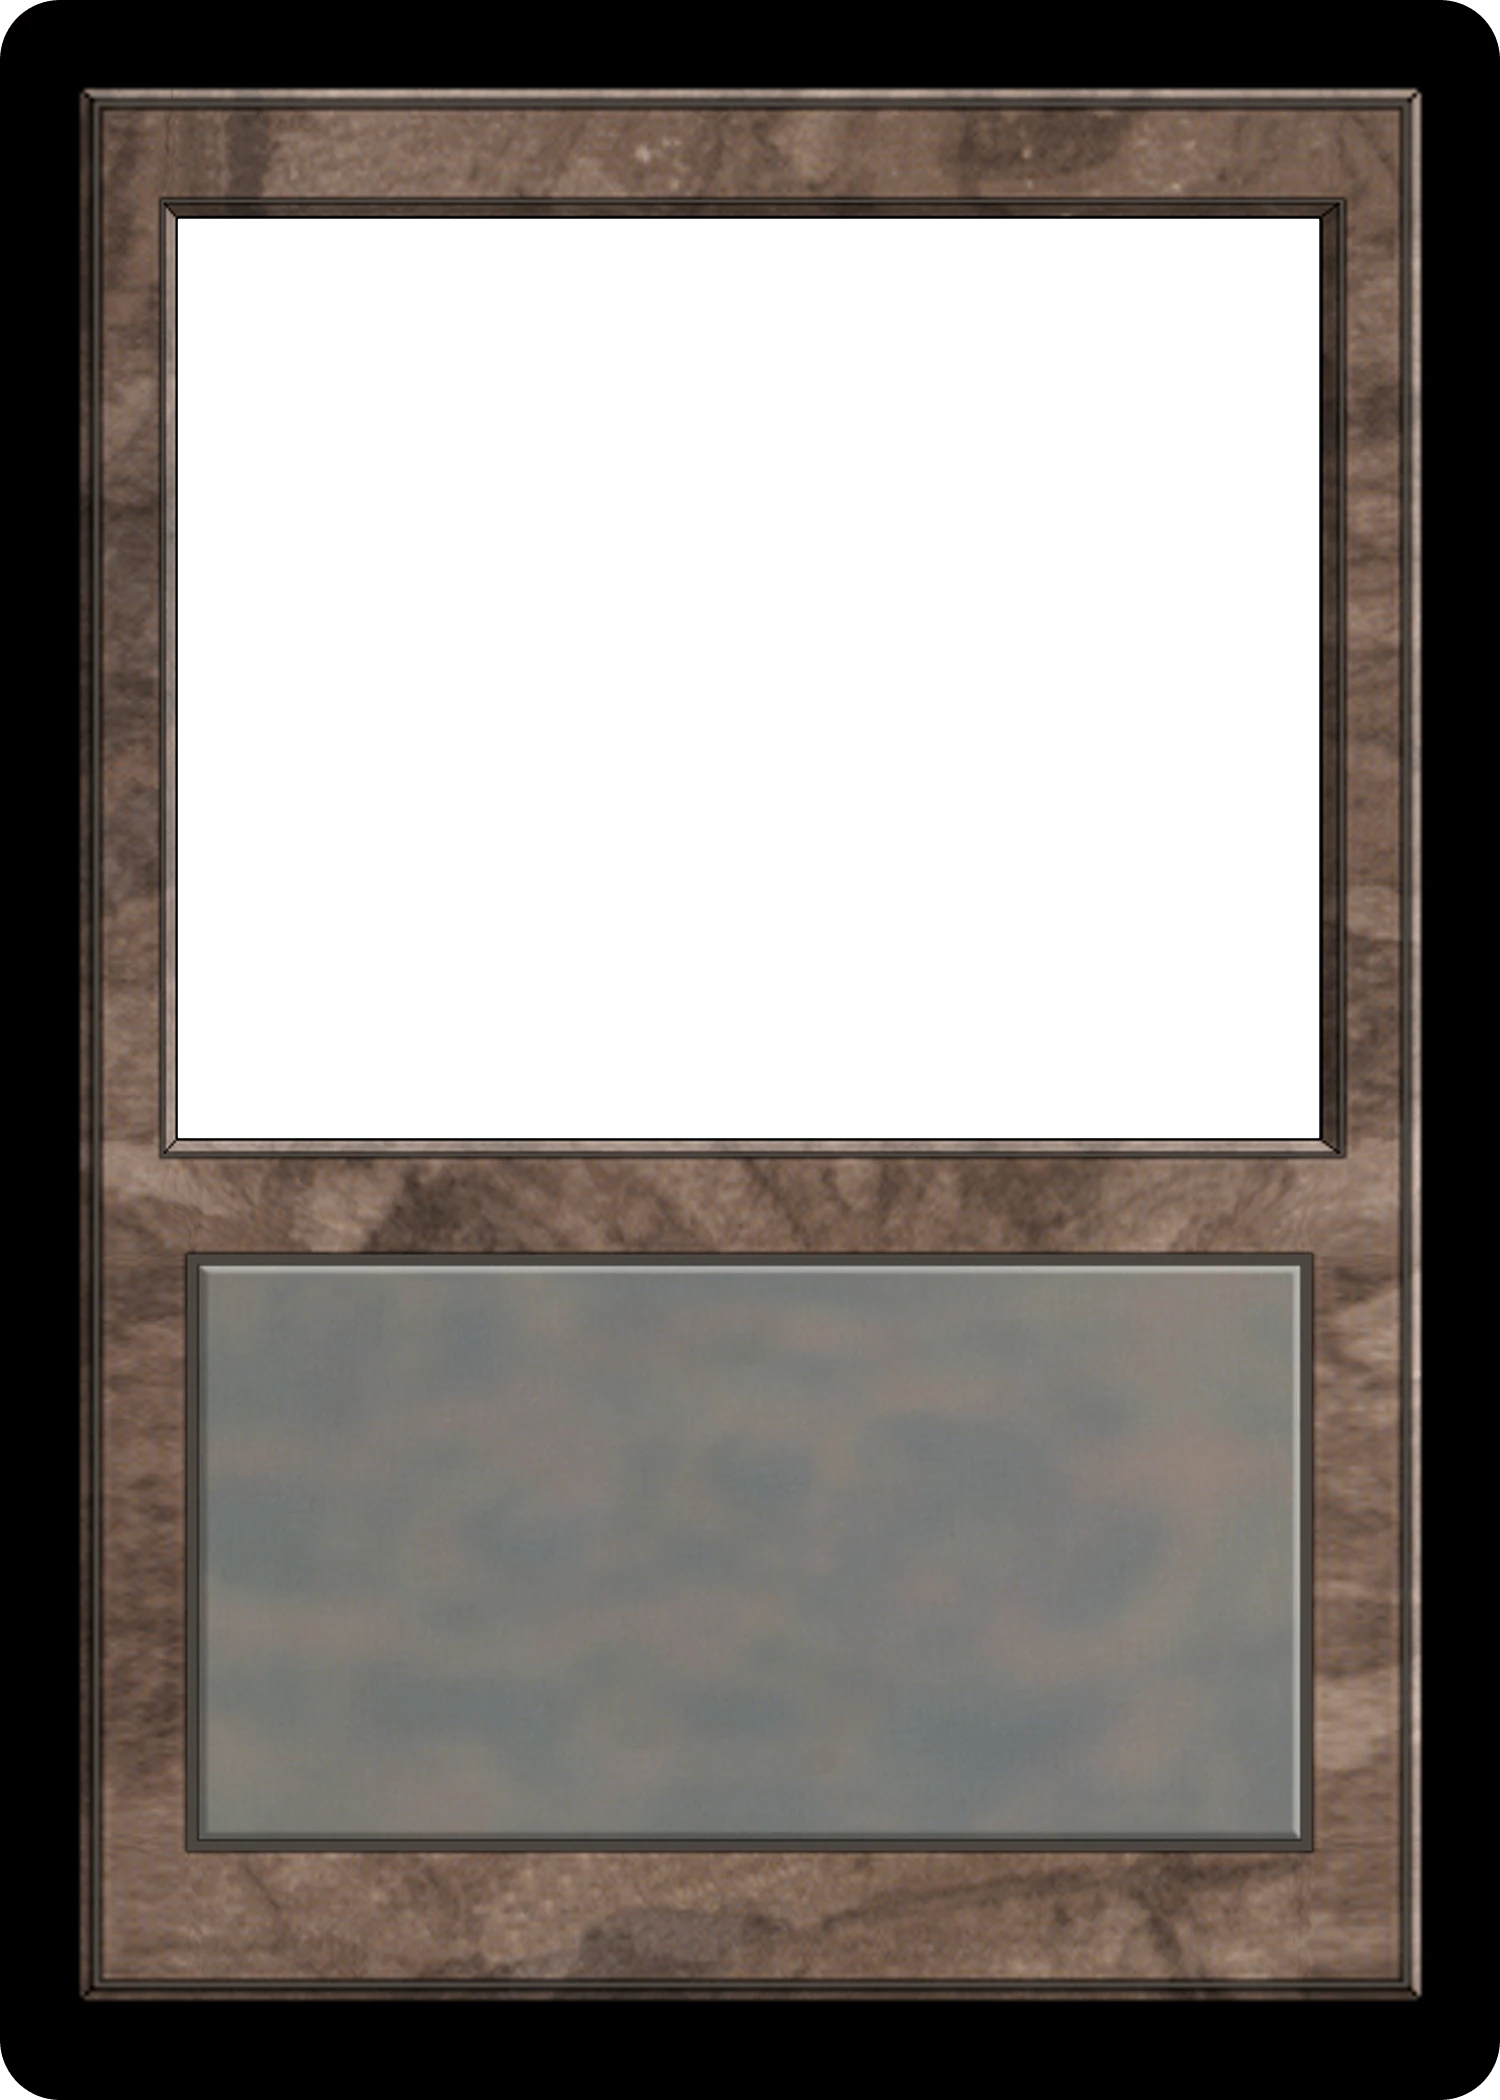
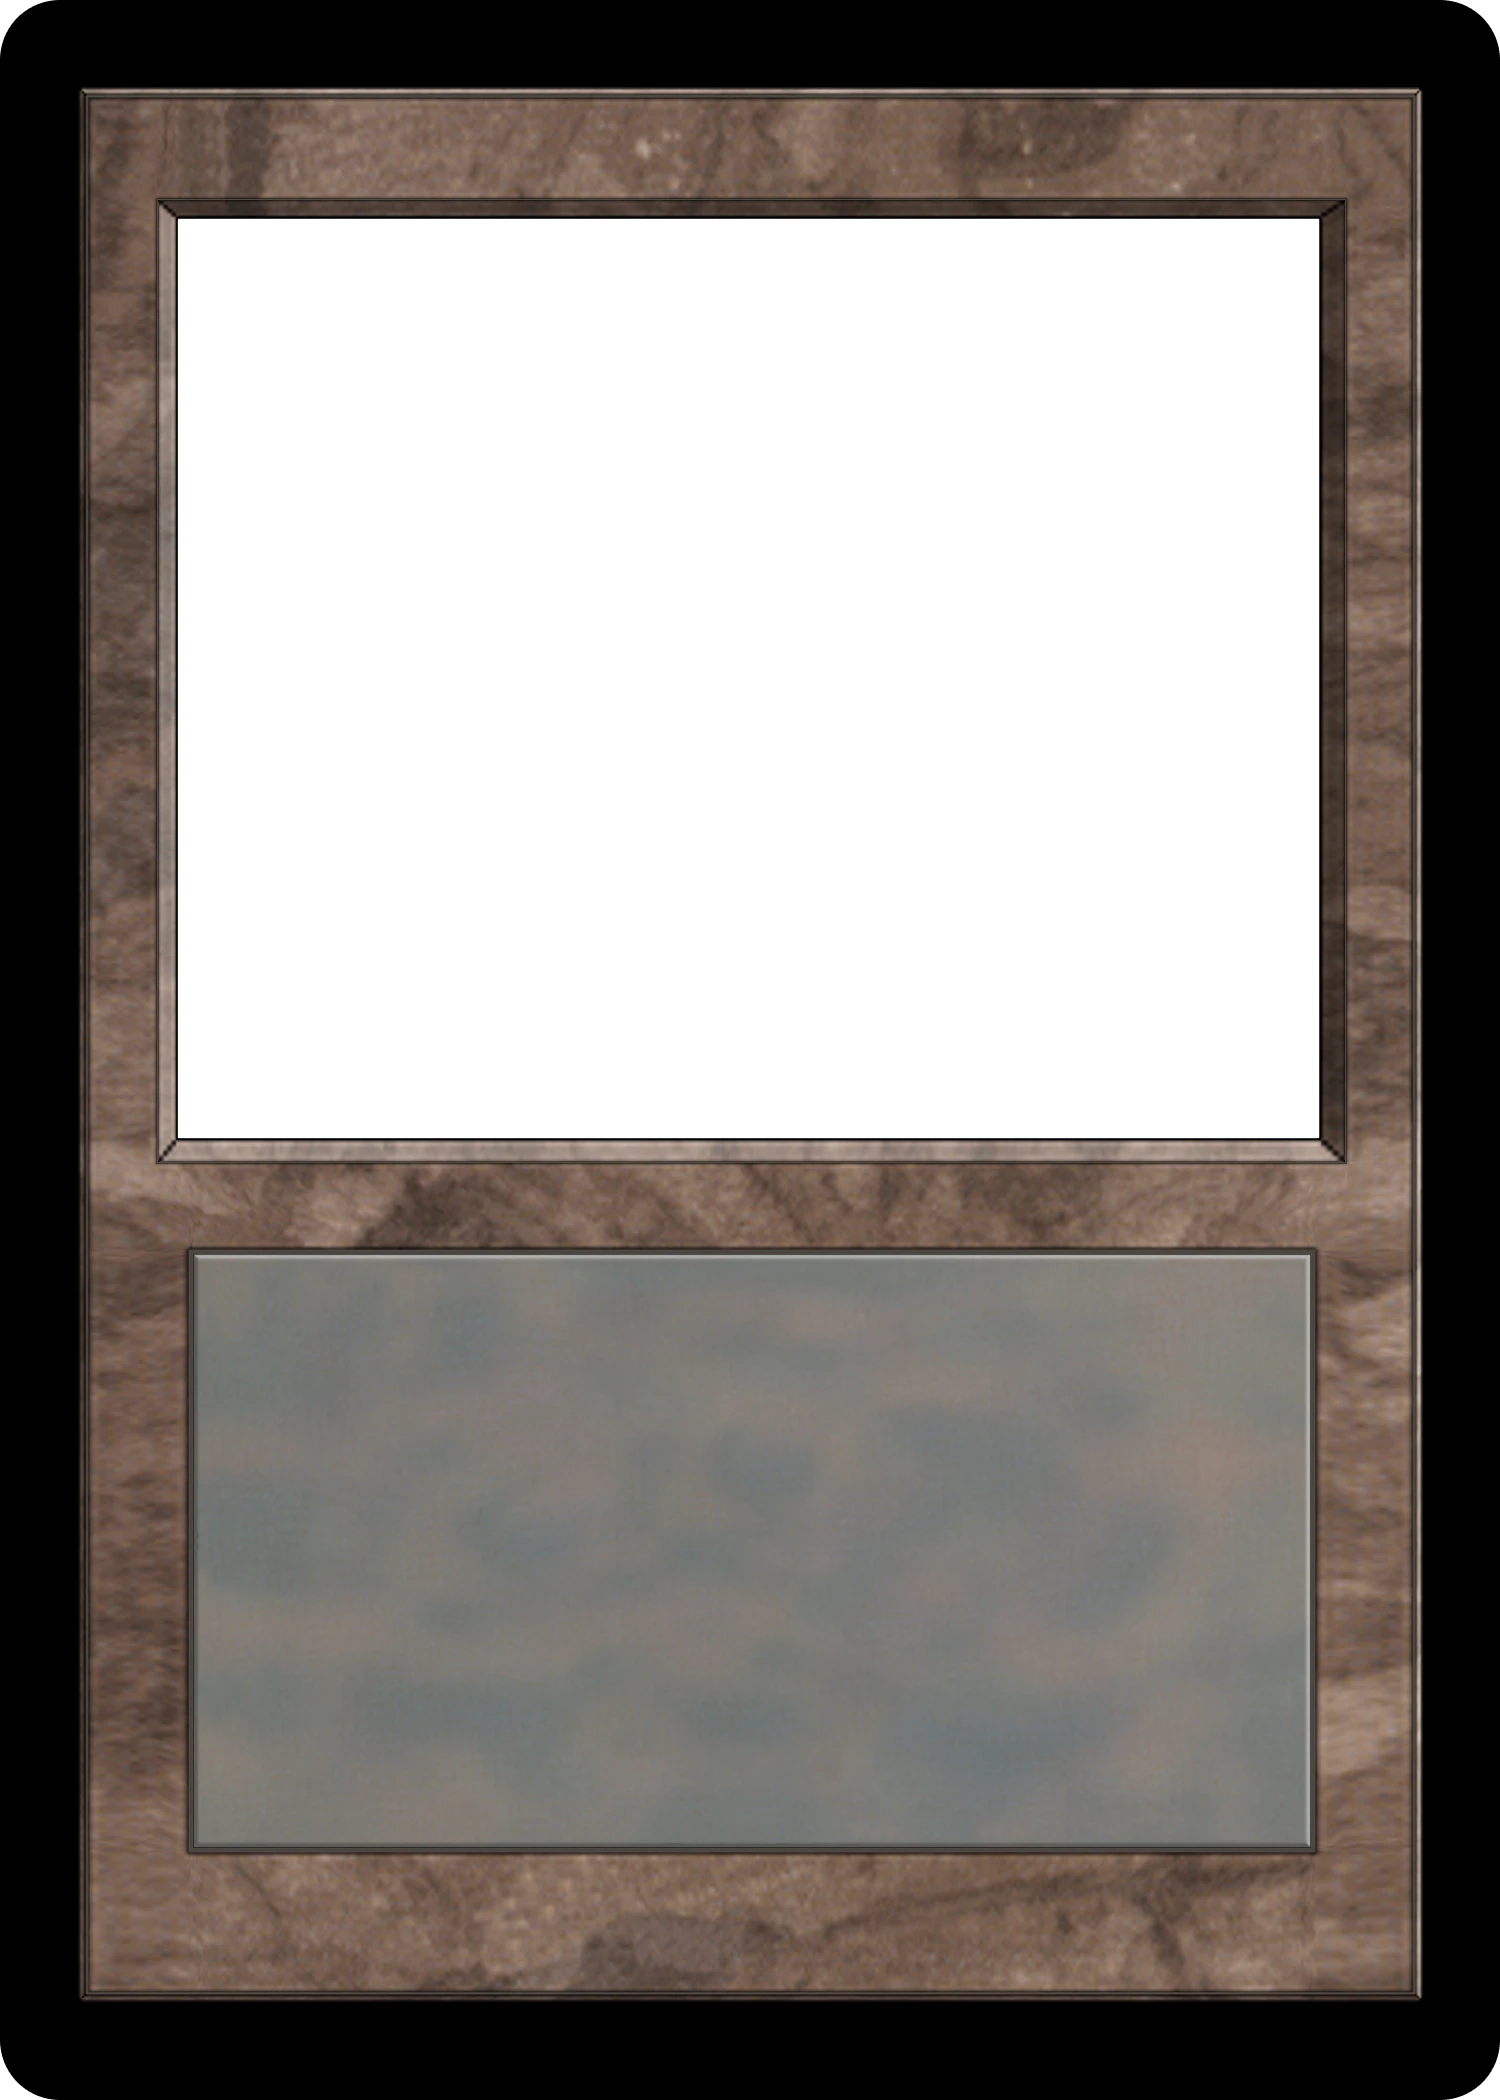
fix(frames): thin the Alpha frame lines to the print's (owner decision, round 2)
The re-cut Alpha masters scaled MSE's 1 px lines with the bands around
them, so every frame line came out about twice the printed card's. Each
line group now has its own warp knots, placed on the print's dark lines
(half-maximum crossings, medians over 19 LEA/LEB scans):

- outer pinstripe 21-23 px -> 9-12 (print 9-11), frame edges unchanged
- art box outline (MSE dark-light-dark) ~7 px -> 3 at 1 px per source
  px, within 1 px of the print's line; the art opening is unchanged
- text box outline + MSE's face ring + inner line 14-15 -> 8 px; the
  outline moves onto the print's (top 1252 -> 1247, right 1314 -> 1318)

Box knots squeeze plain marble where a box ends, so each map has an
outer twin with the first release's bevel scale for the title band, type
band, P/T strip and side borders, ramped onto the full map beside each
box (no new seams).

Only the 14 agclassic/alphaland masters (+ .webp twins) change; layout
rects are untouched (their padding comments are updated). v27, still
unshipped, already sweeps both templates: no new layout version. HD
bakes of all 37 templates x regular/foil/etched are byte-identical
except agclassic and alphaland. New master test pins every line's
width and place; restoring the old pinstripe, art box or text box knots
fails it.

Changed region(s): [[0.0307, 0.031, 0.9507, 0.9595]]

diff --git a/tests/unit/render/bake-followups.test.ts b/tests/unit/render/bake-followups.test.ts
@@ -154,21 +154,21 @@ describe("Alpha brand mark is centred in the re-cut black band", () => {
 });
 
 describe("Alpha P/T sits in the strip below the text box (v25, re-cut)", () => {
-  it("centres the digits where the print does (strip 1853–2000 px = 88.24–95.24 %H)", async () => {
+  it("centres the digits where the print does (strip 1855–2000 px = 88.33–95.24 %H)", async () => {
     const [none, pt] = [await bake(card("agclassic", { power: null, toughness: null })), await bake(card("agclassic"))];
     const box = diffBox(none, pt)!;
     const cy = ((box.y0 + box.y1 + 1) / 2 / H) * 100;
     const cx = ((box.x0 + box.x1 + 1) / 2 / W) * 100;
-    const at = (cy - 88.24) / (95.24 - 88.24);
+    const at = (cy - 88.33) / (95.24 - 88.33);
     // Printed Alpha/Beta digits: centred at 1920–1925 px (0.45–0.49 of the
     // strip), ~88 %W under the text box's right corner (19 LEA/LEB scans).
     expect(at).toBeGreaterThan(0.4);
     expect(at).toBeLessThan(0.52);
     expect(cx).toBeGreaterThan(86.5);
     expect(cx).toBeLessThan(89.5);
-    // …and entirely inside the strip, clear of the text box and the black.
-    expect(box.y0 / H).toBeGreaterThan(1853 / 2100);
-    expect((box.y1 + 1) / H).toBeLessThan(1978 / 2100);
+    // …and entirely inside the strip, clear of the text box and the pinstripe.
+    expect(box.y0 / H).toBeGreaterThan(1855 / 2100);
+    expect((box.y1 + 1) / H).toBeLessThan(1990 / 2100);
   }, 60_000);
 });
 
@@ -272,7 +272,7 @@ describe("Alpha ink: silver P/T and artist line on every frame but white", () =>
 
 describe("Alpha masters are re-cut to the printed proportions", () => {
   // scripts/build-alpha-frames.mjs: frame 80–1421 × 89–2000, art opening
-  // 178–1319 × 219–1138, text box 185–1314 × 1252–1853 (HD px).
+  // 178–1319 × 219–1138, text box 186–1318 × 1247–1855 (HD px).
   async function master(template: string, key: string) {
     const { data, info } = await sharp(`public/frames/${template}/${key}.png`)
       .ensureAlpha()
@@ -295,7 +295,21 @@ describe("Alpha masters are re-cut to the printed proportions", () => {
       }
       return { l, a };
     };
-    return { info, at, box };
+    /** Mean luminance (over black) across `span` — x when `axis` is "x",
+     *  else y — averaged along `along`, indexed by absolute pixel. */
+    const profile = (axis: "x" | "y", along: [number, number], span: [number, number]) => {
+      const p = new Float64Array(axis === "x" ? info.width : info.height);
+      for (let t = span[0]; t < span[1]; t += 1) {
+        let sum = 0;
+        for (let s = along[0]; s < along[1]; s += 1) {
+          const q = axis === "x" ? at(t, s) : at(s, t);
+          sum += (q.l * q.a) / 255;
+        }
+        p[t] = sum / (along[1] - along[0]);
+      }
+      return p;
+    };
+    return { info, at, box, profile };
   }
 
   it.each(["agclassic", "alphaland"])("%s: black border, art opening and strip where the print has them", async (template) => {
@@ -327,6 +341,7 @@ describe("Alpha masters are re-cut to the printed proportions", () => {
   });
 
   it("the art slot covers the opening and stays under the art box's bevel", () => {
+    // The art box outline: 156–159 / 1344–1347 × 198–201 / 1161–1164.
     for (const template of ["agclassic", "alphaland"] as const) {
       const a = getFrameProfile(template).artSlot;
       const x0 = (a.leftPct / 100) * 1500;
@@ -336,11 +351,106 @@ describe("Alpha masters are re-cut to the printed proportions", () => {
       expect(x0).toBeLessThanOrEqual(178);
       expect(x0).toBeGreaterThan(159);
       expect(x1).toBeGreaterThanOrEqual(1319);
-      expect(x1).toBeLessThan(1347);
+      expect(x1).toBeLessThan(1344);
       expect(y0).toBeLessThanOrEqual(219);
-      expect(y0).toBeGreaterThan(197);
+      expect(y0).toBeGreaterThan(201);
       expect(y1).toBeGreaterThanOrEqual(1138);
-      expect(y1).toBeLessThan(1159);
+      expect(y1).toBeLessThan(1161);
+    }
+  });
+
+  // Owner decision (2026-09-25): thin the frame lines to the print's. Each
+  // dark line group is measured at half maximum on a luminance profile taken
+  // across it and averaged along it — the same measurement as on 19 LEA/LEB
+  // scans, whose medians are the targets below. The first re-cut drew the
+  // pinstripe 21–23 px, the art box outline ~7 and the text box's outline +
+  // face ring + inner line 13–15 (its outline 4–5 px off on two sides).
+  const median = (p: Float64Array, a: number, b: number) => [...p.subarray(a, b)].sort((u, v) => u - v)[(b - a) >> 1];
+  /** Sub-pixel position (pixel-edge coordinates) where p crosses `level` between i and i + 1. */
+  const cross = (p: Float64Array, i: number, level: number) =>
+    i + 0.5 + (p[i] === p[i + 1] ? 0.5 : (level - p[i]) / (p[i + 1] - p[i]));
+  /** The black → frame edge: half way between the border and the frame. */
+  function edge(p: Float64Array, win: [number, number], black: [number, number], frame: [number, number], blackFirst: boolean) {
+    const level = (median(p, ...black) + median(p, ...frame)) / 2;
+    if (blackFirst) {
+      for (let i = win[0]; i < win[1] - 1; i += 1) if (p[i] < level && p[i + 1] >= level) return cross(p, i, level);
+    } else {
+      for (let i = win[1] - 2; i >= win[0]; i -= 1) if (p[i] >= level && p[i + 1] < level) return cross(p, i, level);
+    }
+    return NaN;
+  }
+  /** A dark line group in `win`: its first and last half-maximum crossings
+   *  (half way between its darkest pixel and the median of `bg`). */
+  function group(p: Float64Array, win: [number, number], bg: [number, number]) {
+    let min = Infinity;
+    for (let i = win[0]; i < win[1]; i += 1) min = Math.min(min, p[i]);
+    const level = (min + median(p, ...bg)) / 2;
+    let first = NaN;
+    let last = NaN;
+    for (let i = win[0]; i < win[1] - 1; i += 1) {
+      if (Number.isNaN(first) && p[i] >= level && p[i + 1] < level) first = cross(p, i, level);
+      if (p[i] < level && p[i + 1] >= level) last = cross(p, i, level);
+    }
+    return { first, last, width: last - first, centre: (first + last) / 2 };
+  }
+
+  it.each(["agclassic", "alphaland"])("%s: pinstripe, art box and text box lines at the print's width and place", async (template) => {
+    for (const key of ["w", "u", "b", "r", "g", "c", "m"]) {
+      const { profile } = await master(template, key);
+      const near = (got: number, want: number, tol: number, what: string) =>
+        expect(Math.abs(got - want), `${template}/${key} ${what}: ${got.toFixed(1)} vs print ${want}`).toBeLessThanOrEqual(tol);
+      const narrow = (got: number, lo: number, hi: number, what: string) => {
+        expect(got, `${template}/${key} ${what} width`).toBeGreaterThanOrEqual(lo);
+        expect(got, `${template}/${key} ${what} width`).toBeLessThanOrEqual(hi);
+      };
+      // Outer pinstripe: frame edge → where the texture starts (print 9–11).
+      const artRows = profile("x", [400, 1000], [40, 1460]);
+      const left = edge(artRows, [66, 100], [45, 66], [120, 145], true);
+      const leftEnd = group(artRows, [Math.floor(left) + 2, Math.floor(left) + 32], [115, 145]).last;
+      near(left, 81.2, 2, "left frame edge");
+      near(leftEnd, 90.2, 2, "left pinstripe end");
+      narrow(leftEnd - left, 7, 13, "left pinstripe");
+      const right = edge(artRows, [1400, 1436], [1436, 1455], [1355, 1380], false);
+      const rightEnd = group(artRows, [Math.floor(right) - 32, Math.floor(right) - 1], [1355, 1385]).first;
+      near(right, 1422.3, 2, "right frame edge");
+      near(rightEnd, 1411.1, 2, "right pinstripe end");
+      narrow(right - rightEnd, 7, 13, "right pinstripe");
+      const titleCols = profile("y", [1000, 1300], [40, 260]);
+      const top = edge(titleCols, [75, 110], [50, 72], [125, 150], true);
+      const topEnd = group(titleCols, [Math.floor(top) + 2, Math.floor(top) + 32], [125, 150]).last;
+      near(top, 88.6, 2, "top frame edge");
+      near(topEnd, 99.6, 2, "top pinstripe end");
+      narrow(topEnd - top, 7, 13, "top pinstripe");
+      const stripCols = profile("y", [950, 1150], [1780, 2060]);
+      const bottom = edge(stripCols, [1985, 2020], [2020, 2045], [1900, 1935], false);
+      const bottomEnd = group(stripCols, [Math.floor(bottom) - 32, Math.floor(bottom) - 1], [1900, 1940]).first;
+      near(bottom, 1999.5, 2, "bottom frame edge");
+      near(bottomEnd, 1990.7, 2, "bottom pinstripe end");
+      narrow(bottom - bottomEnd, 7, 13, "bottom pinstripe");
+      // Art box outline (print 156.0–158.8 left, 1160.5–1163.4 below).
+      const artLeft = group(artRows, [145, 172], [115, 145]);
+      near(artLeft.centre, 157.4, 2, "art box outline (left)");
+      narrow(artLeft.width, 1, 5, "art box outline (left)");
+      const bandCols = profile("y", [400, 1100], [1100, 1300]);
+      const artBottom = group(bandCols, [1146, 1172], [1175, 1200]);
+      near(artBottom.centre, 1162, 2.5, "art box outline (bottom)");
+      narrow(artBottom.width, 1, 5, "art box outline (bottom)");
+      // Text box: its outline where the print's is (L 186.0, R 1318.4,
+      // T 1247.0, B 1855.2 — outer edges), and outline + MSE's face ring +
+      // inner line together no wider than 10 px.
+      const textRows = profile("x", [1350, 1750], [40, 1460]);
+      const textLeft = group(textRows, [174, 202], [120, 170]);
+      near(textLeft.first, 186, 2, "text box outline (left)");
+      narrow(textLeft.width, 1.5, 10, "text box lines (left)");
+      const textRight = group(textRows, [1296, 1325], [1330, 1380]);
+      near(textRight.last, 1318.4, 2, "text box outline (right)");
+      narrow(textRight.width, 1.5, 10, "text box lines (right)");
+      const textTop = group(bandCols, [1240, 1268], [1200, 1235]);
+      near(textTop.first, 1247, 2, "text box outline (top)");
+      narrow(textTop.width, 1.5, 10, "text box lines (top)");
+      const textBottom = group(profile("y", [400, 1100], [1780, 2060]), [1835, 1865], [1870, 1900]);
+      near(textBottom.last, 1855.2, 2, "text box outline (bottom)");
+      narrow(textBottom.width, 1.5, 10, "text box lines (bottom)");
     }
   });
 });

diff --git a/lib/cards/template-layout.ts b/lib/cards/template-layout.ts
@@ -508,13 +508,14 @@ const M15SNOWLAND: FrameProfile = {
 };
 
 // AgClassic — the 1993 Alpha/Beta frame. MSE's magic-agclassic art, re-cut
-// to the printed card's proportions (scripts/build-alpha-frames.mjs; HD px
-// on 1500 × 2100, measured on 19 LEA/LEB scans): black border 80 px at the
-// sides, 89 above and 100 below the frame; title band 89–197; art opening
-// 178–1319 × 219–1138; type band 1159–1252; text box 185–1314 × 1252–1853
-// (textured area 204–1293 × 1273–1832); P/T strip 1853–2000. Name, type and
-// rules are dark ink; the "Illus." line and the P/T share one line in the
-// strip, silver on every frame colour but white (ALPHA_INK).
+// to the printed card's proportions and line widths
+// (scripts/build-alpha-frames.mjs; HD px on 1500 × 2100, measured on 19
+// LEA/LEB scans): black border 80 px at the sides, 89 above and 100 below
+// the frame (its pinstripe = the outer ~10 px); title band 100–198; art
+// opening 178–1319 × 219–1138; type band 1164–1247; text box 186–1318 ×
+// 1247–1855 (textured area 198–1306 × 1259–1843); P/T strip 1855–1990. Name,
+// type and rules are dark ink; the "Illus." line and the P/T share one line
+// in the strip, silver on every frame colour but white (ALPHA_INK).
 const AGCLASSIC: FrameProfile = {
   flavorDivider: false,
   label: "Alpha (1993)",
@@ -543,7 +544,7 @@ const AGCLASSIC: FrameProfile = {
     weight: 600,
     font: "display",
   },
-  // Inside the textured area with the old ~26 px side / ~12 px top padding.
+  // Inside the textured area with ~33 px at the sides and ~26 px above.
   rules: {
     rect: { topPct: 61.2, leftPct: 15.4, widthPct: 69.2, heightPct: 25.6 },
     sizePct: ptToPct(9),
@@ -563,7 +564,7 @@ const AGCLASSIC: FrameProfile = {
     inkByColorKey: ALPHA_INK,
   },
   // Official 1993 cards print P/T on the frame strip BELOW the text box, not
-  // on a plate: digits centred at ~1921 px (0.46 of the 1853–2000 strip) and
+  // on a plate: digits centred at ~1921 px (0.45 of the 1855–2000 strip) and
   // ~88 %W, under the text box's right corner.
   pt: {
     rect: { topPct: 88.74, leftPct: 80.5, widthPct: 15, heightPct: 5.6 },

diff --git a/lib/cards/layout-version.ts b/lib/cards/layout-version.ts
@@ -172,8 +172,9 @@ import { normalizeFrameTemplate } from "@/lib/cards/card-display";
 //            "sweep".
 //   27     — owner decisions from the follow-up review (2026-09-25): the
 //            Alpha frame re-cut to the printed proportions from its MSE
-//            source, with light embossed P/T + artist lettering on non-white
-//            frames (agclassic, alphaland); two-colour Dragon Wing cards
+//            source, its lines thinned to the print's (round 2), with light
+//            embossed P/T + artist lettering on non-white frames
+//            (agclassic, alphaland); two-colour Dragon Wing cards
 //            split their wings (tarkirdragon); Ghostfire rebuilt with MSE's
 //            translucent boxes + P/T ribbon, white ink (tarkirghostfire).
 //            List derived from HD render diffs on all 37 templates.
